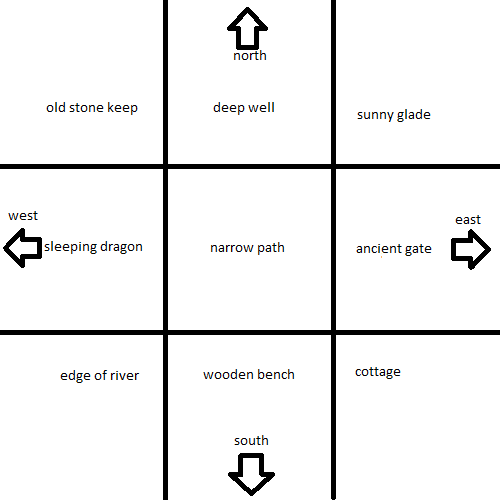
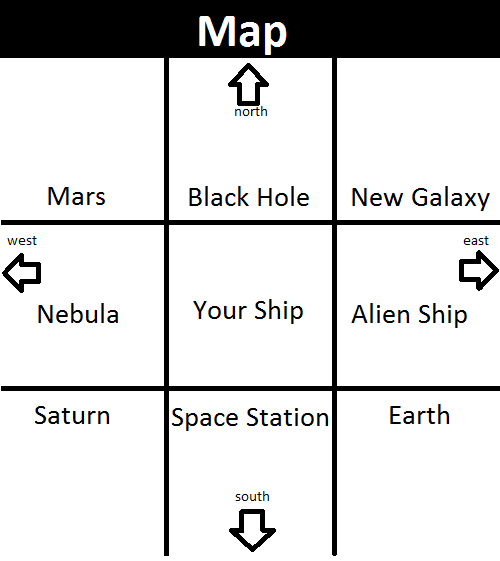
.

diff --git a/ForestGame/forest.html b/ForestGame/forest.html
@@ -1,61 +1,104 @@
 <!DOCTYPE html>
 <html>
 <head>
-	<title>Forest Adventure</title>
+	<title>Space Adventure</title>
+	<link href="https://fonts.googleapis.com/css?family=Slabo+27px" rel="stylesheet">
 	<style>
+
+
 		#comp{
-			float: right;
+			float:right;
+			margin: 35px;
+		}
+
+		#input{
+			font-size: 25px;
+			margin-left: 35px;
+		}
+
+		#output{
+			font-size: 30px;
+			margin-left: 35px;
+			margin-right: 710px;
+			background-color: black;
+			float: center;
+		}
+
+		#key{
+			font-size: 25px;
+		}
+
+		#pics{
+			margin: 35px;
+			margin-bottom: 0px;
+			border-style: solid;
+			border-color: black;
+			border-width: 10px;
+		}
+
+		body{
+			background-image: url("images/stars.jpg");
+			background-repeat: no-repeat;
+			font-family: 'Slabo 27px', serif;
+			color: white;
+		}
+
+		#head{
+			font-weight: bold;
+			font-size: 50px;
 		}
 	</style>
 </head>
 
 <body>
-	<img src="" width="300px" height="267px">
-	<img id = "comp"src="images/map.png" width = "300px">
+	<center><div id = "head">Space Adventure</div></center>
+	<img id = "pics" src="" width="500px" height="417px">
+	<img id = "comp"src="images/map.png" width = "450px">
 	<p id= "output"> </p>
-	<input id = "input" type ="text" placeholder ="Enter Your Action...">
+	<input id = "input" type ="text" placeholder ="Which Way Captain?">
 	<button id ="key"> Enter</button>
 	
 
 
 	<script>
 		var map = [];
-		map[0] = "An Old Stone Keep";
-		map[1] = "A Deep Well";
-		map[2] = "A Sunny Glade";
-		map[3] = "A Sleeping Dragon";
-		map[4] = "A Narrow Pathway";
-		map[5] = "An Ancient Gate";
-		map[6] = "The Edge of a River";
-		map[7] = "A Lonely Wooden Bench";
-		map[8] = "An Isolated Cottage.";
+		map[0] = "Mars";
+		map[1] = "A Black Hole";
+		map[2] = "A New Galaxy";
+		map[3] = "A Cool Nebula";
+		map[4] = "Your Ship";
+		map[5] = "An Alien Ship";
+		map[6] = "Saturn";
+		map[7] = "A Space Station";
+		map[8] = "Earth";
 
 		var actionsIknow = ["north", "east", "south", "west"];
 		var itemsLocation = [1, 6, 8];
 
 		var img = [];
-		img[0] = "images/keep.png"
-		img[1] = "images/well.png"
-		img[2] = "images/glade.png"
-		img[3] = "images/dragon.png"
-		img[4] = "images/path.png"
-		img[5] = "images/gate.png"
-		img[6] = "images/river.png"
-		img[7] = "images/bench.png"
-		img[8] = "images/cottage.png"
+		img[0] = "images/mars.jpg"
+		img[1] = "images/backhole.jpg"
+		img[2] = "images/galaxy.jpg"
+		img[3] = "images/nebula.jpg"
+		img[4] = "images/spaceship.jpg"
+		img[5] = "images/ship.jpg"
+		img[6] = "images/saturn.jpg"
+		img[7] = "images/station.jpg"
+		img[8] = "images/earth.jpg"
 
 		var blockedPathMessages = [];
-		blockedPathMessages[0] = "It's way too dangerous to go that way!";
-		blockedPathMessages[1] = "A strange force pulls you back!";
-		blockedPathMessages[2] = "There are thorns in the way!";
-		blockedPathMessages[3] = "You can't step over a dragon!";
+		blockedPathMessages[0] = "Mountians are too steep";
+		blockedPathMessages[1] = "Don't go off the trail!";
+		blockedPathMessages[2] = "The door is locked";
+		blockedPathMessages[3] = "You don't have a light";
 		blockedPathMessages[4] = " ";
-		blockedPathMessages[5] = "The gate is locked";
-		blockedPathMessages[6] = "The water is too cold to cross";
-		blockedPathMessages[7] = "The trees are too thick to pass";
-		blockedPathMessages[8] = "That way is too scary";
+		blockedPathMessages[5] = "Stay on the bridge";
+		blockedPathMessages[6] = "The water is moving too fast!";
+		blockedPathMessages[7] = "You're out of water";
+		blockedPathMessages[8] = "Let's just stay here!";
 		
 		var items = ["flute", "stone", "sword"];
+		var itemsLocation = [1, 6, 8];
 
 		var backpack = [];
 
@@ -104,7 +147,7 @@
 			action = "";
 		
 
-		for(i = 0; i<actionsIknow.length; i++){
+		for(i = 0; i<itemsIknow.length; i++){
 			if(playerInput.indexOf(actionsIknow[i] !== -1)){
 				action = playerInput;
 				console.log("Players action: " + action);
@@ -184,15 +227,15 @@
 		}
 	}
 
-	function takeItem(){
+function takeItem(){
 		var itemIndexNumber = items.indexOf(item);
-		if(itemIndexNumber !== -1 && itemsLocation[itemIndexNumber]){
+		if(itemIndexNumber !== -1 && itemsLocation[itemIndexNumber] === mapLocation){
 			gameMessage = "You take the: " + item + ".";
 			backpack.push(item);
-			items.splice(itemIndexNumber, 1);
+			itemsIknow.splice(itemIndexNumber, 1);
 			itemsLocation.splice(itemIndexNumber, 1);
-		}
 
+		}
 		else{
 			gameMessage = "You can't do that!";
 		}
@@ -202,14 +245,14 @@
 		if(backpack.length !== 0){
 			var backpackIndexNumber = backpack.indexOf(item);
 			if(backpackIndexNumber !== -1){
-				gameMessage = "You dropped the " + item + ".";
+				gameMessage = " You drop the " + item + ".";
 				items.push(backpack[backpackIndexNumber]);
 				itemsLocation.push(mapLocation);
 				backpack.splice(backpackIndexNumber);
 			}
-			else{
-				gameMessage = "You can't do that!";
-			}
+		else{
+			gameMessage = " You can't drop that!";
+		}
 		}
 		else{
 			gameMessage = "You're not carrying anything!";
@@ -217,7 +260,54 @@
 	}
 
 	function useItem(){
+		var backpackIndexNumber = backpack.indexOf(item);
+		if(backpackIndexNumber === -1){
+			gameMessage = "You're not carrying it!";
+		}
 
+		if(backpack.length === 0){
+			gameMessage += " Your backpack is empty!";
+		}
+
+		if(backpackIndexNumber !== -1){
+			switch(item){
+				case "flute":
+					if(mapLocation === 8){
+						gameMessage = "Beautiful music fills the air";
+						gameMessage += "a wize old man steps outside";
+						gameMessage += "and hands you a sword.";
+						items.push("sword");
+						itemsLocation.push(mapLocation)
+					}
+					else{
+						gameMessage = "you try and play the flute";
+						gameMessage += "but it makes no sound";
+					}
+					break;
+
+				case "sword":
+					if(mapLocation === 3){
+						gameMessage = "You swing and slay the dragon!";
+						gameMessage += "You saved the Forest!";
+					}
+					else{
+						gameMessage = "You the sword and miss";
+					}
+					break;
+
+				case "stone":
+					if(mapLocation === 1){
+						gameMessage =  "You drop the stone in the well,";
+						gameMessage += "a magical flute appears!";
+						backpack.splice(backpackIndexNumber, 1);
+						items.push("flute");
+						itemsLocation.push(mapLocation);
+					}
+					else{
+						gameMessage = "You fumble with the stone in your pocket";
+					}
+			}
+		}
 	}
 
 
